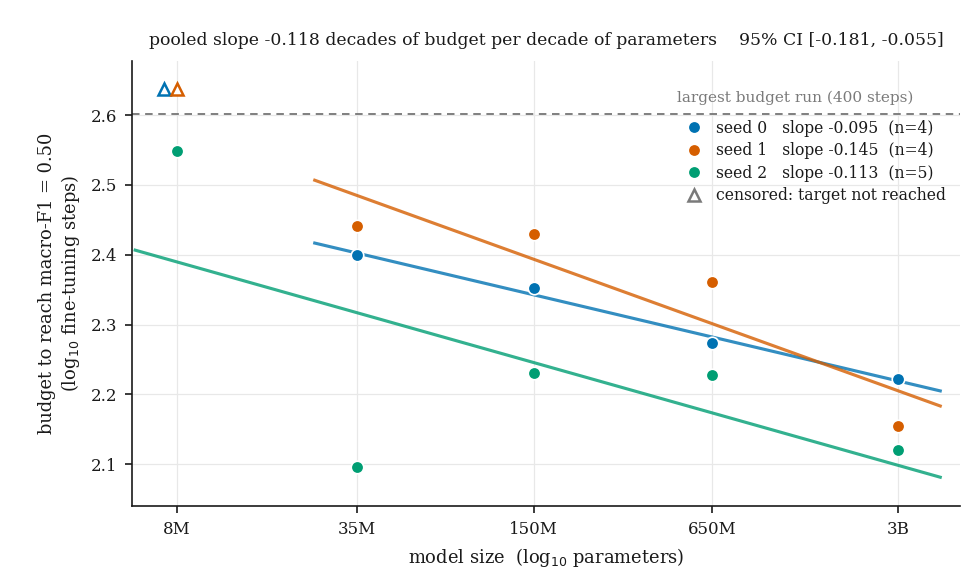
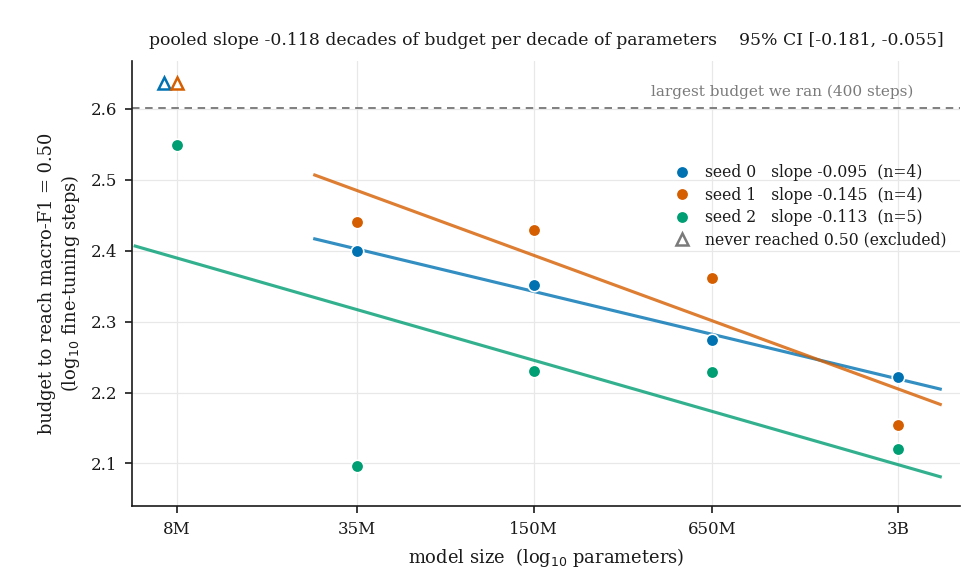
Explain the censored rungs, drop the reproduction table, cite the archive
Figure 2's legend said 'censored: target not reached', which is unexplained
jargon: a reader has no way to know what the two open triangles mean. The
legend now reads 'never reached 0.50 (excluded)' and the caption says in plain
words why those points have no vertical coordinate and what follows from it --
that two seeds are fitted on four rungs and one on five. The term is also now
defined on first use in the methods, since the body used it bare as well.

Removes the reproduction command table from the methods. A table of shell
commands is unusual for a journal's methods section, and the data availability
statement is the conventional home for it; the README covers the rest.

Data and code archived at doi:10.5281/zenodo.22061975, cited in the reference
list as the journal requires for software and data.

diff --git a/paper/paper.tex b/paper/paper.tex
@@ -11,6 +11,7 @@
 \usepackage[numbers,sort&compress]{natbib}
 \usepackage{caption}
 \usepackage[hidelinks]{hyperref}
+\providecommand{\doi}[1]{\href{https://doi.org/#1}{doi:#1}}
 
 \captionsetup{font=small,labelfont=bf}
 \sisetup{detect-weight=true,detect-family=true}
@@ -333,44 +334,13 @@ For the cost measurement we invert the dependent variable: we hold the
 \emph{score} fixed and measure the \emph{budget} required to reach it. Each budget
 is a separate fine-tuning run annealed to its own endpoint --- reading
 intermediate checkpoints off one long run is biased, by more than the effect under
-study (Section~\ref{sec:defects}). We ran three seeds over five rungs, with nine
-budgets (25--400 steps) in the first seed and seven (50--400) in the other two,
-and evaluated three target scores. A fourth target of 0.55 was run at the first
+study (Section~\ref{sec:defects}). We ran three seeds over five rungs, with nine budgets (25--400 steps) in the
+first seed and seven (50--400) in the other two, and evaluated three target
+scores. A model that never reaches the target within the largest budget we ran has
+no crossing point to place on the budget axis; we call such a rung
+\emph{censored}, and it is excluded from that seed's fit. A fourth target of 0.55 was run at the first
 seed and abandoned: three of five models never reached it inside the largest
 budget, leaving too few uncensored rungs to fit.
-
-\subsection{Code and reproduction}
-\label{sec:repro}
-
-Every claim maps to a script and a data directory (Table~\ref{tab:repro}), in the
-repository named under Data availability. Result cards live under
-\texttt{data/cards/seed0}--\texttt{seed5}, one directory per repeat, and the
-iso-performance sweeps under \texttt{data/sweeps/}. Reproducing every number needs
-neither a GPU nor model weights: the released cards are the input.
-
-\begin{table}[h]
-\centering
-\small
-\begin{tabular}{@{}ll@{}}
-\toprule
-\textbf{claim} & \textbf{command} \\
-\midrule
-Tables~\ref{tab:gap}, \ref{tab:families}, Figure~\ref{fig:forest} &
-\texttt{python scripts/analyse\_gap.py} \\
-Table~\ref{tab:recov} & \texttt{python scripts/analyse\_recoverability.py} \\
-Table~\ref{tab:cost}, Figure~\ref{fig:cost} & \texttt{python scripts/analyse\_cost.py} \\
-CARP width and depth (Section~\ref{sec:families}) &
-\texttt{python scripts/analyse\_carp\_geometry.py} \\
-all figures & \texttt{python scripts/make\_figures.py} \\
-bibliography & \texttt{python scripts/build\_bib.py} \\
-every published number & \texttt{pytest -q} \\
-\bottomrule
-\end{tabular}
-\caption{Every claim in this paper, and the command that reproduces it. The test
-suite re-derives each published value from the released cards and fails if it
-moves.}
-\label{tab:repro}
-\end{table}
 
 \section{Results}
 
@@ -433,7 +403,6 @@ design cannot separate them. Its ladder is also the shortest here at 0.96 decade
 models.} Any claim that it is would overreach the evidence.
 
 \subsection{A second and a third model family}
-\label{sec:families}
 
 Fifty of our sixty-nine protein cards, before CARP was added, were ESM2 ---
 forty-two trained checkpoints and eight randomly-initialised control arms. To test
@@ -530,9 +499,13 @@ Figure~\ref{fig:cost}.
 \centering
 \includegraphics[width=0.92\textwidth]{figures/cost_scaling.pdf}
 \caption{Budget required to reach a fixed macro-F1 of 0.50, against model size.
-Each budget is a separate fine-tuning run annealed to its own endpoint. Open
-triangles mark rungs censored at the grid ceiling: that model never reached the
-target inside the largest budget run, so it is excluded from its seed's fit.}
+Each point is one model in one seed, and each budget is a separate fine-tuning run
+annealed to its own endpoint. The dashed line marks the largest budget we ran, 400
+steps. The two open triangles above it are the seeds in which the smallest model
+(8M) never reached 0.50 within that budget: for those seeds no crossing point
+exists, so that model cannot be placed on the vertical axis and is left out of the
+fit. This is why seeds 0 and 1 are fitted on four rungs and seed 2 --- whose 8M
+model did reach the target, at about 354 of 400 steps --- on five.}
 \label{fig:cost}
 \end{figure}
 
@@ -789,14 +762,17 @@ argue is structural rather than incidental.
 
 \section*{Data availability}
 
+\begin{sloppypar}
 All result cards, sweep files and analysis code underlying every number in this
-paper are openly available at
-\url{https://github.com/Biodyn-AI/probe-scaling}. Result cards are under
-\texttt{data/cards/}; iso-performance sweeps under \texttt{data/sweeps/}. The
-analysis scripts, figure-generation script and bibliography generator named in
-Section~\ref{sec:repro} regenerate every figure, table and reference from those
-files. No new experimental data were generated; all model checkpoints and
+paper are openly available at \url{https://github.com/Biodyn-AI/probe-scaling},
+and archived at \doi{10.5281/zenodo.22061975}~\citep{kendiukhov2026code}. Result cards are under
+\texttt{data/cards/}; iso-performance sweeps under \texttt{data/sweeps/}. The analysis scripts, figure-generation script and bibliography generator in
+that repository regenerate every figure, table and reference in this paper from
+those files, and its test suite re-derives each published value and fails if it
+moves. Reproducing the paper requires neither a GPU nor model weights: the
+released cards are the input. No new experimental data were generated; all model checkpoints and
 benchmark datasets are third-party and cited at first use.
+\end{sloppypar}
 
 \section*{Funding}
 
@@ -820,11 +796,9 @@ arXiv API by the script \texttt{build\_bib.py}, which fails rather than emit an
 unresolvable entry. It also assisted in preparing the \LaTeX{} sources of the
 tables and figures.
 
-The scientific claims, their interpretation, and the text of this manuscript are
-the author's own. No part of the manuscript was drafted from a prompt. All
-outputs of the assistant were reviewed by the author, and every numerical result
+All outputs of the assistant were reviewed by the author, and every numerical result
 reported here was re-derived from the released result cards by the analysis
-scripts named in Section~\ref{sec:repro}.
+scripts in the repository named under Data availability.
 
 
 \bibliographystyle{plainnat}

diff --git a/scripts/make_figures.py b/scripts/make_figures.py
@@ -356,7 +356,8 @@ def figure_cost():
                         markerfacecolor="white", markeredgewidth=1.2, zorder=4)
 
     ax.axhline(ceiling, color=GREY, lw=0.9, ls=(0, (4, 3)), zorder=1)
-    ax.text(math.log10(3.4e9), ceiling + 0.012, "largest budget run (400 steps)",
+    ax.text(math.log10(3.4e9), ceiling + 0.012,
+            "largest budget we ran (400 steps)",
             fontsize=7.3, color=GREY, ha="right", va="bottom")
 
     ax.set_xlabel("model size  (log$_{10}$ parameters)", fontsize=8.6)
@@ -374,14 +375,14 @@ def figure_cost():
     handles, labels = ax.get_legend_handles_labels()
     handles.append(Line2D([], [], marker="^", color=GREY, lw=0, ms=6,
                           markerfacecolor="white", markeredgewidth=1.2,
-                          label="censored: target not reached"))
+                          label="never reached 0.50 (excluded)"))
     ax.legend(handles=handles, frameon=False, fontsize=7.5, loc="upper right",
-              bbox_to_anchor=(1.0, 0.90), handlelength=1.3, labelspacing=0.35)
+              bbox_to_anchor=(1.0, 0.80), handlelength=1.3, labelspacing=0.35)
     xt = [math.log10(v) for v in (8e6, 35e6, 150e6, 650e6, 3e9)]
     ax.set_xticks(xt)
     ax.set_xticklabels(["8M", "35M", "150M", "650M", "3B"], fontsize=8)
     ax.set_xlim(math.log10(5.5e6), math.log10(5.0e9))
-    ax.set_ylim(2.04, ceiling + 0.075)
+    ax.set_ylim(2.04, ceiling + 0.065)
     fig.subplots_adjust(left=0.135, right=0.985, top=0.895, bottom=0.135)
     fig.savefig(OUT / "cost_scaling.pdf")
     fig.savefig(OUT / "cost_scaling.png")

diff --git a/scripts/build_bib.py b/scripts/build_bib.py
@@ -37,6 +37,7 @@ DOIS = {
     "voita2020mdl": "10.18653/v1/2020.emnlp-main.14",
     "schaeffer2023mirage": "10.52202/075280-2425",
     "kornblith2019transfer": "10.1109/cvpr.2019.00277",
+    "kendiukhov2026code": "10.5281/zenodo.22061975",
 }
 
 ARXIV = {
